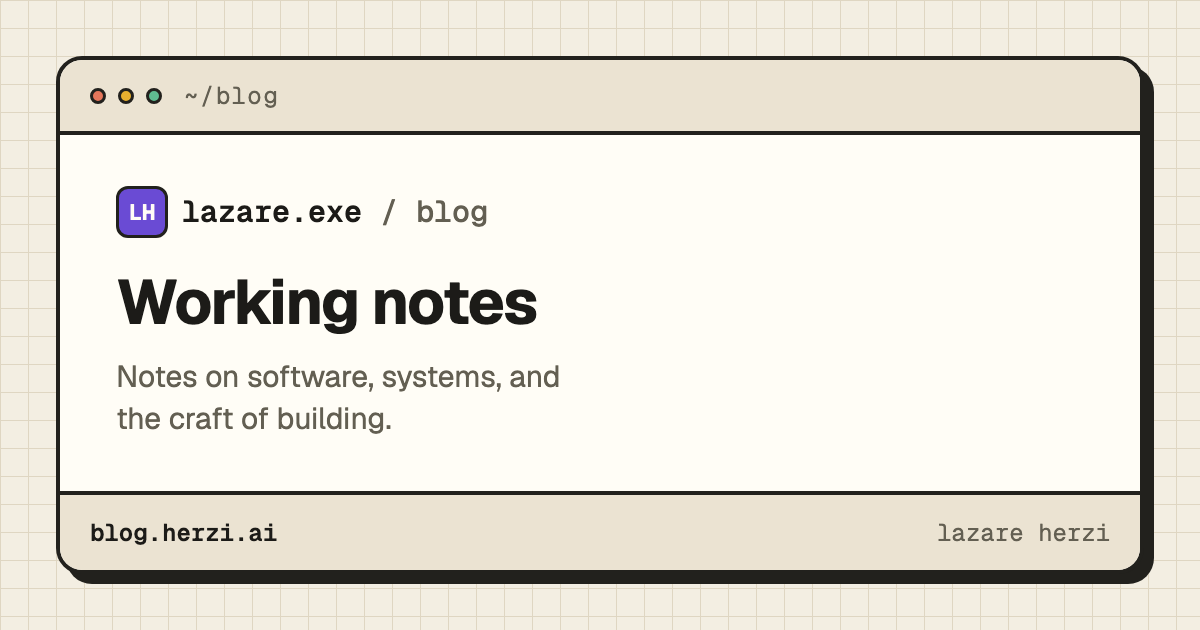
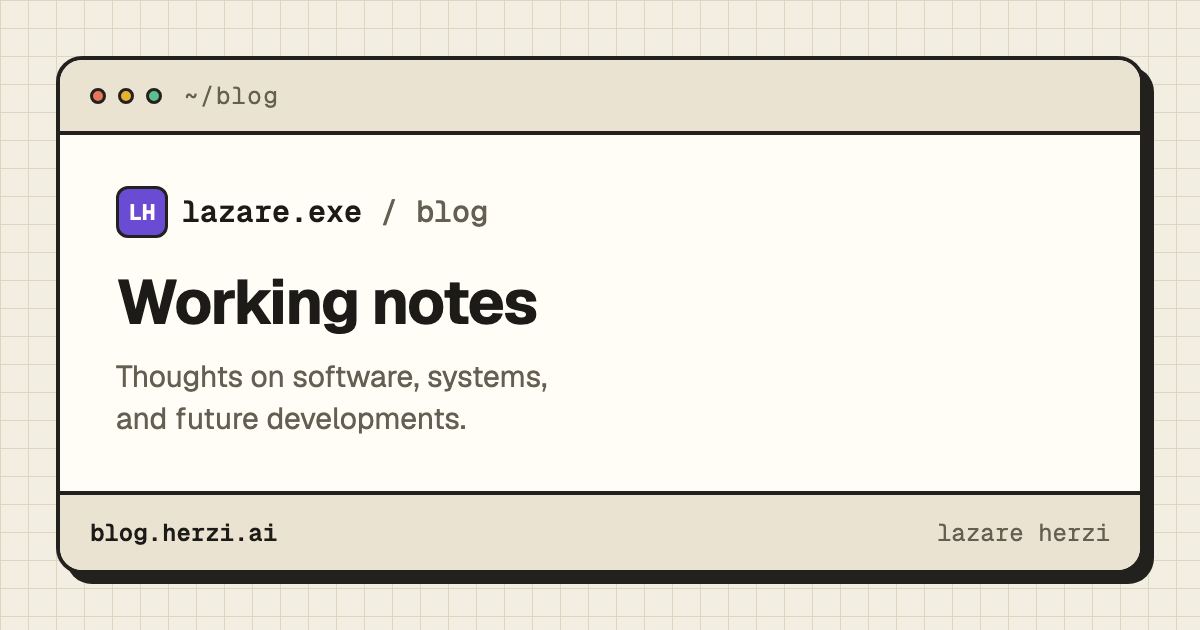
UI/UX updates

Changed region(s): [[0.0925, 0.573, 0.4625, 0.6937]]

diff --git a/tools/og-default.source.html b/tools/og-default.source.html
@@ -87,7 +87,7 @@
         <span>lazare.exe <span class="sub">/ blog</span></span>
       </div>
       <h1>Working notes</h1>
-      <p>Notes on software, systems, and the craft of building.</p>
+      <p>Thoughts on software, systems, and future developments.</p>
     </div>
     <div class="foot">
       <b>blog.herzi.ai</b>

diff --git a/content/_index.md b/content/_index.md
@@ -1,6 +1,6 @@
 ---
 title: "Lazare's Coding Blog"
-description: "Notes on software, systems, and the craft of building."
+description: "Thoughts on software, systems, and future developments."
 ---
 
 Thoughts on software, systems, and future developments.
